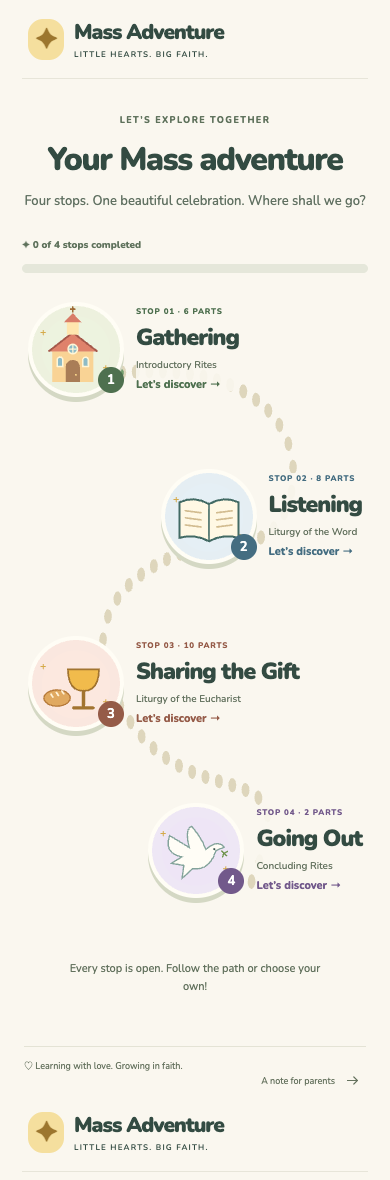
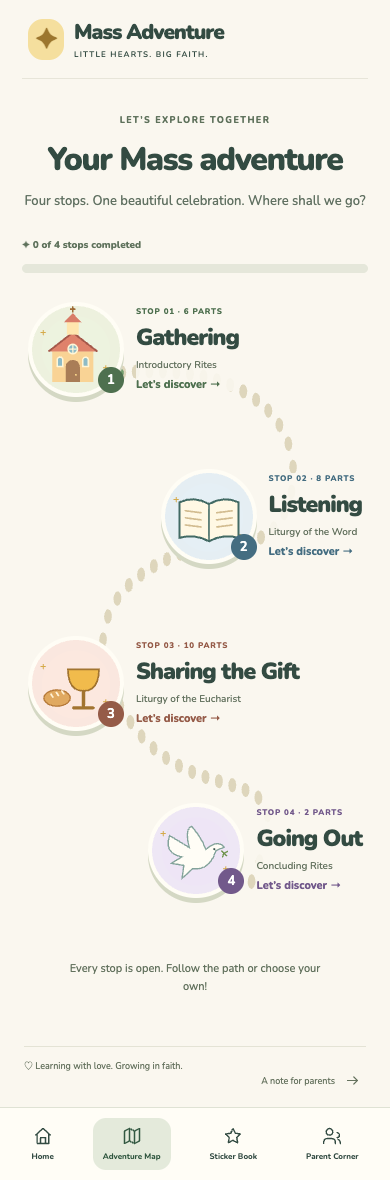
Document live GitHub Pages verification and refresh screenshots

Changed region(s): [[0.0615, 0.9153, 0.6462, 1.0], [0.7692, 0.9458, 0.9231, 1.0]]

diff --git a/TEST_REPORT.md b/TEST_REPORT.md
@@ -52,3 +52,7 @@ WebKit touch-handler tests use portable synthetic touch event payloads because t
 - When hosting is selected, check that host’s HTTPS, caching, and security headers. This local test does not verify a deployment.
 
 Passing automated tests is useful evidence, not a blanket claim that the app is production-ready on every device.
+
+## GitHub Pages verification
+
+Published at https://ksantiagobah.github.io/mass-adventure/ on October 9, 2026. The initial GitHub Actions build and deployment completed successfully. GitHub Pages reports HTTPS enforced. The complete `scripts/verify.mjs` suite passed against the live HTTPS site, including all 26 cards, 12 quiz questions, four completions, artwork/font loading, responsive checks, narration handling, accessibility checks, and absence of third-party app requests. Screenshots were refreshed from the live site. This verifies deployment; the manual device, listening, and pastoral checks above still apply.
